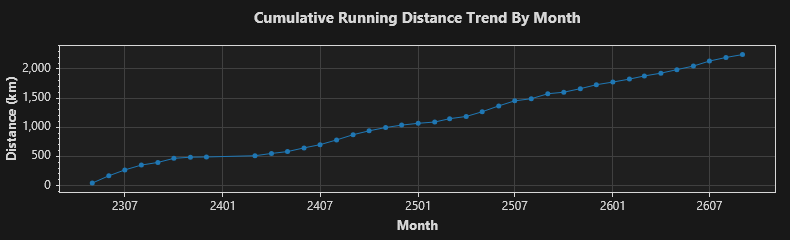
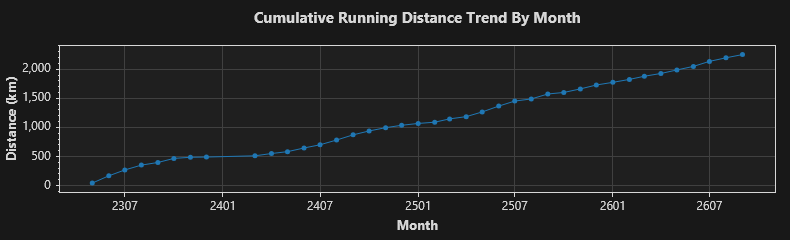
2026/9/20 跑步 6.10 公里

diff --git a/trend.md b/trend.md
@@ -1,4 +1,4 @@
-### Total: 381 days, 2245.4099999999998544808477163 km.
+### Total: 382 days, 2251.5100000000002182787284255 km.
 
 
 ![Monthly](https://github.com/prime167/MyRunningLog/blob/main/data/CumulativeTrendByMonth.png)
